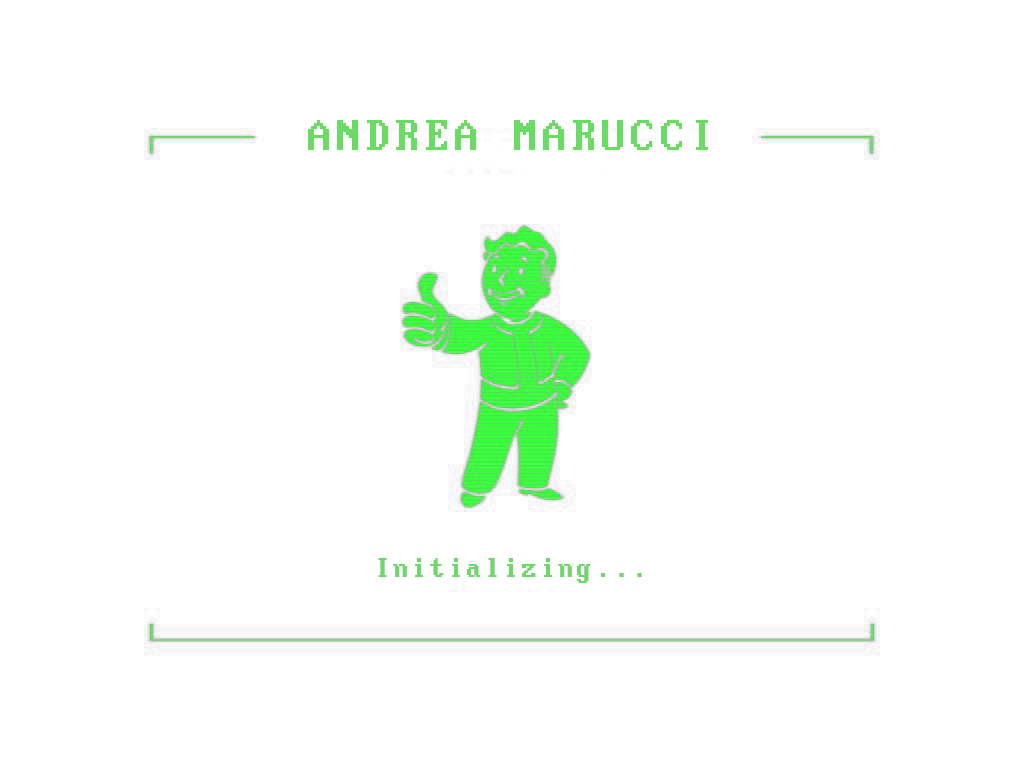
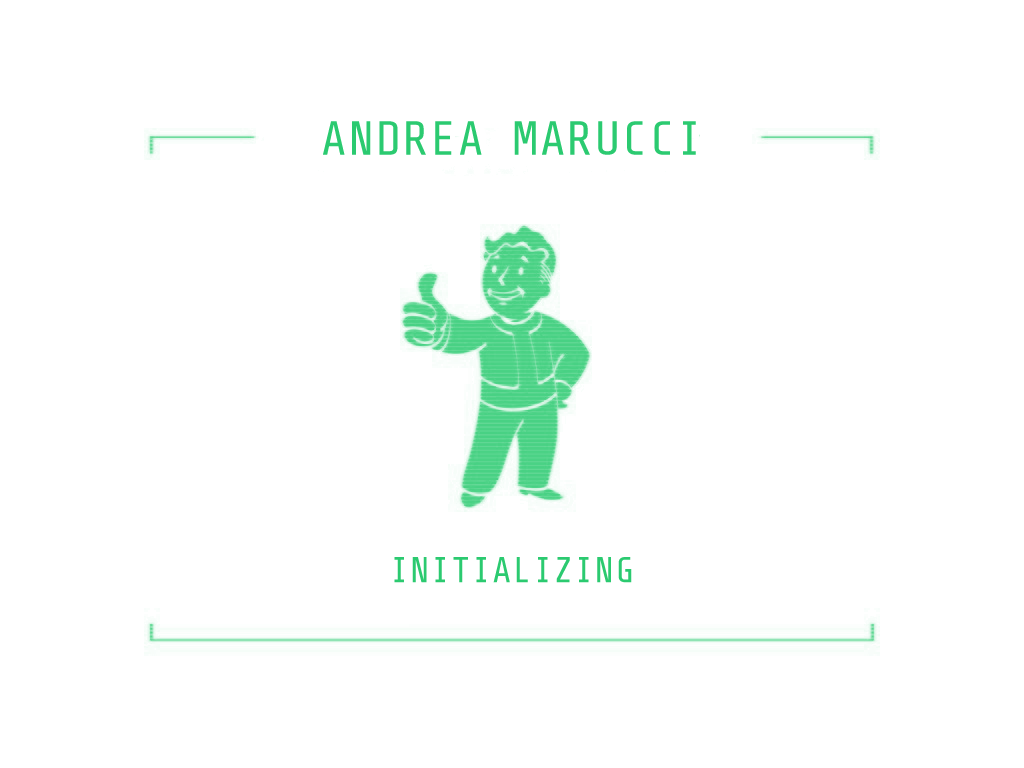
v1

diff --git a/app.js b/app.js
@@ -52,11 +52,10 @@ let specialKeys = [
 
 const help = `
 TO NAVIGATE USE THE FOLLOWING COMMANDS:
-01 - 'home' - brings you back to the Home
-02 - 'about' - brings you to the 'About Me' section.
-03 - 'projects' - brings you to the 'Projects' section.
-04 - 'contact' - brings you to the Contact form.
-05 - 'cv' - download my resume
+01 - 'about' - brings you to the 'About Me' section.
+02 - 'projects' - brings you to the 'Projects' section.
+03 - 'contact' - brings you to the Contact form.
+04 - 'home' - brings you back to the Home
 
 UTILITY COMMANDS:
 u01 - 'help' - shows the all the commands available.
@@ -116,7 +115,6 @@ function keyPressed(event) {
       onWelcome = false;
       username.innerText += ` ${text.innerText.toUpperCase()}`;
       portfolioUsername.innerText += ` ${text.innerText.toUpperCase()}`;
-      text.innerText = "";
       setTimeout(() => {
         welcomeScreen.classList.add("inactive");
         portfolioScreen.classList.remove("inactive");
@@ -126,42 +124,32 @@ function keyPressed(event) {
     }
 
     //commands
-    const commands = {
-      logout: () => {
-        onWelcome = true;
-        setTimeout(() => {
-          welcomeScreen.classList.remove("inactive");
-          portfolioScreen.classList.add("inactive");
-          username.innerText = `INSERT YOUR USERNAME:`;
-          portfolioUsername.innerText = `USERNAME:`;
-          homeP.innerText = typeHelp;
-          audio.g.play();
-          audio.g.volume = 0.2;
-        }, 400);
-      },
-      help: () => {
-        setTimeout(() => {
-          homeP.innerText = help;
-        }, 400);
-      },
-      clear: () => {
-        setTimeout(() => {
-          homeP.innerText = typeHelp;
-        }, 400);
-      },
-      home: () => {
-        openHome();
-      },
-      about: () => {
-        openAboutMe();
-      },
-      projects: () => {
-        openProjects();
-      },
-    };
-
-    const commandText = text.innerText.toLowerCase();
-    commands[commandText];
+    if (text.innerText.toLowerCase() == "logout") {
+      onWelcome = true;
+      setTimeout(() => {
+        welcomeScreen.classList.remove("inactive");
+        portfolioScreen.classList.add("inactive");
+        username.innerText = `INSERT YOUR USERNAME:`;
+        portfolioUsername.innerText = `USERNAME:`;
+        homeP.innerText = typeHelp;
+        audio.g.play();
+        audio.g.volume = 0.2;
+      }, 400);
+    } else if (text.innerText.toLowerCase() == "help") {
+      setTimeout(() => {
+        homeP.innerText = help;
+      }, 400);
+    } else if (text.innerText.toLowerCase() == "clear") {
+      setTimeout(() => {
+        homeP.innerText = typeHelp;
+      }, 400);
+    } else if (text.innerText.toLowerCase() == "home") {
+      openHome();
+    } else if (text.innerText.toLowerCase() == "about") {
+      openAboutMe();
+    } else if (text.innerText.toLowerCase() == "projects") {
+      openProjects();
+    }
     // end of commands
 
     //Menu click with Enter
@@ -199,7 +187,6 @@ function keyPressed(event) {
     //MENU ARROW NAVIGATION
   } else if (event.code == "ArrowUp") {
     if (!onAbout && !onProjects && !onContact && !onCV && !onHome) {
-      console.log(event.code);
       onCV = true;
       cv.classList.add("onFocus");
       audio.a.play();
@@ -242,7 +229,6 @@ function keyPressed(event) {
       !onHome &&
       home.classList != "inactive"
     ) {
-      console.log(event.code);
       onHome = true;
       home.classList.add("onFocus");
       audio.a.play();
@@ -290,7 +276,6 @@ function keyPressed(event) {
     }
     if (!specialChar) {
       text.innerText += event.key;
-      console.log(event.code);
       home.classList.remove("onFocus");
       onHome = false;
       about.classList.remove("onFocus");
@@ -307,12 +292,13 @@ function keyPressed(event) {
 }
 
 function mobileKeyPresed(event) {
-  console.log(event);
+  console.log("Mobile: " + event);
 }
 function mobileTextReset() {
   mobileKeyboard.value = "";
   text.innerText = mobileKeyboard.value;
 }
+
 //all enter key functions
 function formSubmission() {
   mobileKeyboard.blur();
@@ -329,6 +315,7 @@ function formSubmission() {
       audio.g.volume = 0.2;
     }, 400);
   }
+
   //MOBILE COMMANDS
   if (text.innerText.toLowerCase() == "logout") {
     onWelcome = true;
@@ -357,6 +344,7 @@ function formSubmission() {
     openProjects();
   }
   //END MOBILE COMMANDS
+
   mobileTextReset();
   return false; //do not submit the form
 }

diff --git a/style.css b/style.css
@@ -1,5 +1,9 @@
 :root {
-  --fallout-color: rgba(51, 208, 120, 0.8);
+  --fallout-color: rgb(43, 202, 112);
+}
+::selection{
+  background-color: var(--fallout-color);
+  color:#000
 }
 html,
 body {
@@ -17,6 +21,62 @@ body {
   background: url("img/terminal_bg.png") no-repeat center center fixed;
   background-size: cover;
 }
+body:before {
+  content: " ";
+  display: block;
+  position: absolute;
+  top: 0;
+  left: 0;
+  bottom: 0;
+  right: 0;
+  background: linear-gradient(
+      to bottom,
+      rgba(18, 16, 16, 0) 50%,
+      rgba(0, 0, 0, 0.2) 50%
+  );
+  background-size: 100% 8px;
+  z-index: 1000;
+  pointer-events: none;
+}
+
+.scanline {
+  width: 100%;
+  height: 100px;
+  z-index: 1001;
+  background: linear-gradient(
+      0deg,
+      rgba(0, 0, 0, 0) 0%,
+      rgba(255, 255, 255, 0.2) 10%,
+      rgba(0, 0, 0, 0.1) 100%
+  );
+  opacity: 0.1;
+  position: absolute;
+  bottom: 100%;
+  animation: scanline 10s linear infinite;
+}
+
+@keyframes scanline {
+  0% {
+      bottom: 100%;
+  }
+  80% {
+      bottom: 100%;
+  }
+  100% {
+      bottom: 0%;
+  }
+}
+
+@keyframes textShadow {
+  0% {
+    text-shadow: 0.4389924193300864px 0 1px rgba(0,30,255,0.5), -0.4389924193300864px 0 1px rgba(255,0,80,0.3), 0 0 3px;
+  }
+  5% {
+    text-shadow: 2.7928974010788217px 0 1px rgba(0,30,255,0.5), -2.7928974010788217px 0 1px rgba(255,0,80,0.3), 0 0 3px;
+  }
+  /** etc */
+}
+
 p {
   margin: 0;
   text-shadow: 0 0 2px var(--fallout-color);

diff --git a/index.html b/index.html
@@ -13,17 +13,18 @@
     <title>Andrea Marucci - Portfolio</title>
   </head>
   <body>
+    <div class="scanline"></div>
     <div id="loading-screen">
       <img id="loading-image" src="./img/loading_img.png">
     </div>
     <div id="welcome">
       <p>Welcome to ANDREA MARUCCI Portfolio (TM) Termlink</p>
-      <p>&copy; Andrea Marucci 2021</p>
+      <p>&copy; Andrea Marucci 2022</p>
       <p id="username"> INSERT YOUR USERNAME:</p>
     </div>
     <div id="screen">
       <p>Welcome to ANDREA MARUCCI Portfolio (TM) Termlink</p>
-      <p>&copy; Andrea Marucci 2021</p>
+      <p>&copy; Andrea Marucci 2022</p>
       <p id="portfolio-username">USERNAME:</p>
       <ul>
         <li id="home" class="inactive">[ > Home]</li>
